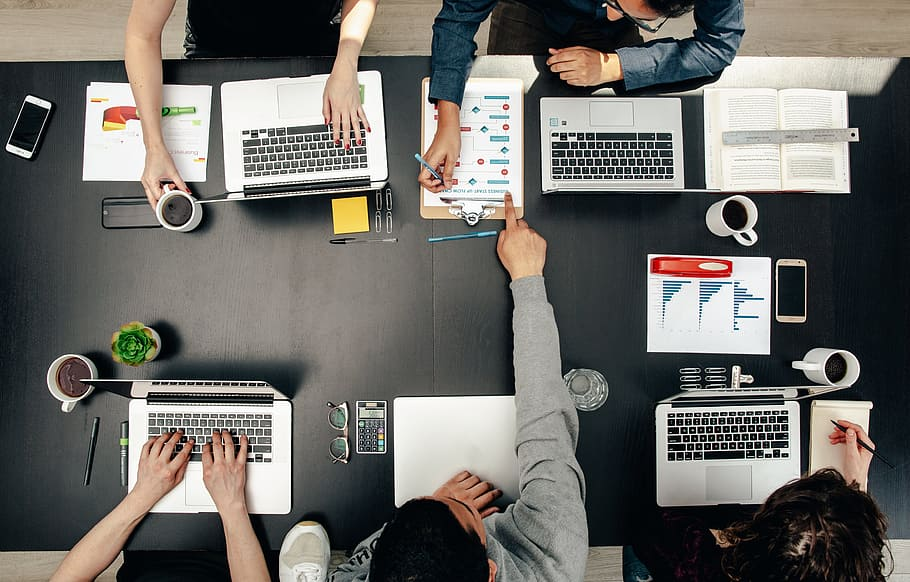
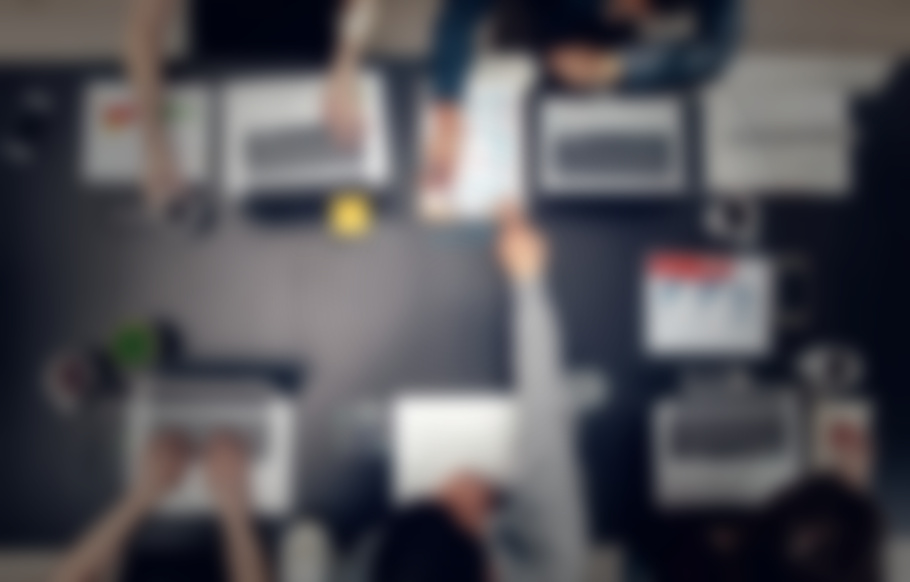
added noscript design and blured bg image

diff --git a/src/index.html b/src/index.html
@@ -20,10 +20,30 @@
         background-repeat: no-repeat;
         background-size: cover;
       }
+ 
+
+
+.h33{
+  color: #fff;
+  width: 50%;
+  position: absolute;
+  text-align: center;
+  top:30%;
+  margin: auto;
+  left: 25%;
+  line-height: 2em;
+  text-shadow: 2px 2px #FF0000;
+}
   </style>
 </head>
 <body>
   <app-root></app-root>
-  <noscript>||This web page is build on Angular|| Your browser does not support JavaScript! Enable Javascript or use latest version of popular Browsers</noscript>
+  <noscript>
+    <div>
+      <h1 class="divLumination h33">
+        This web page is designed in <a href="#">Angular</a>. Some how your browser is not supporting JavaScript. If JavaScript is disabled please enable it or else Use latest version of popular web browser's.
+      </h1>
+    </div>
+  </noscript>
 </body>
 </html>
